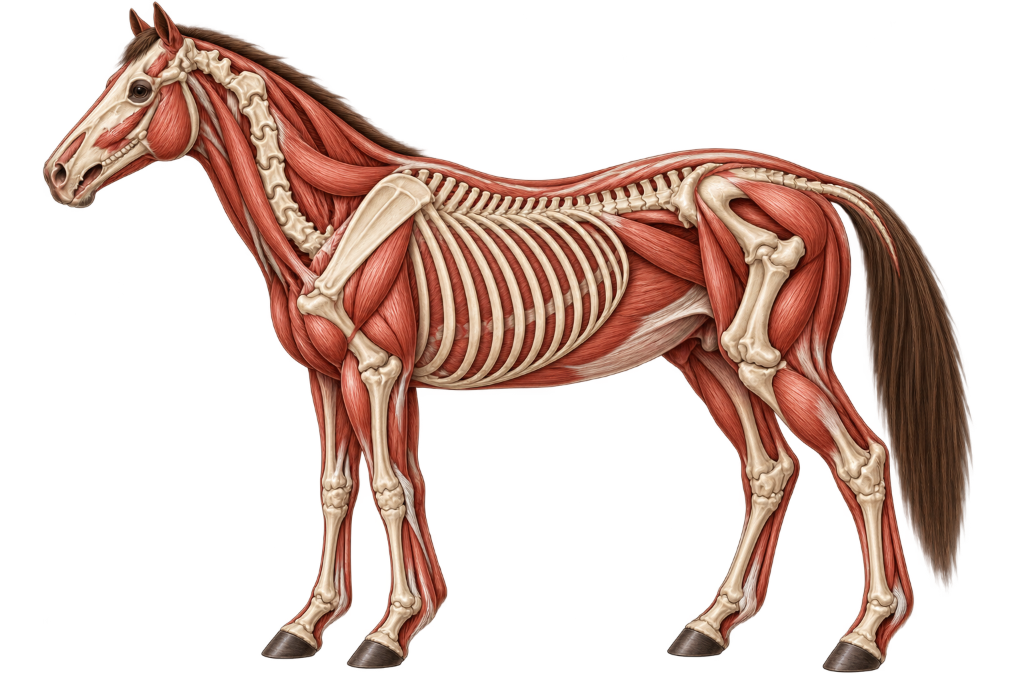
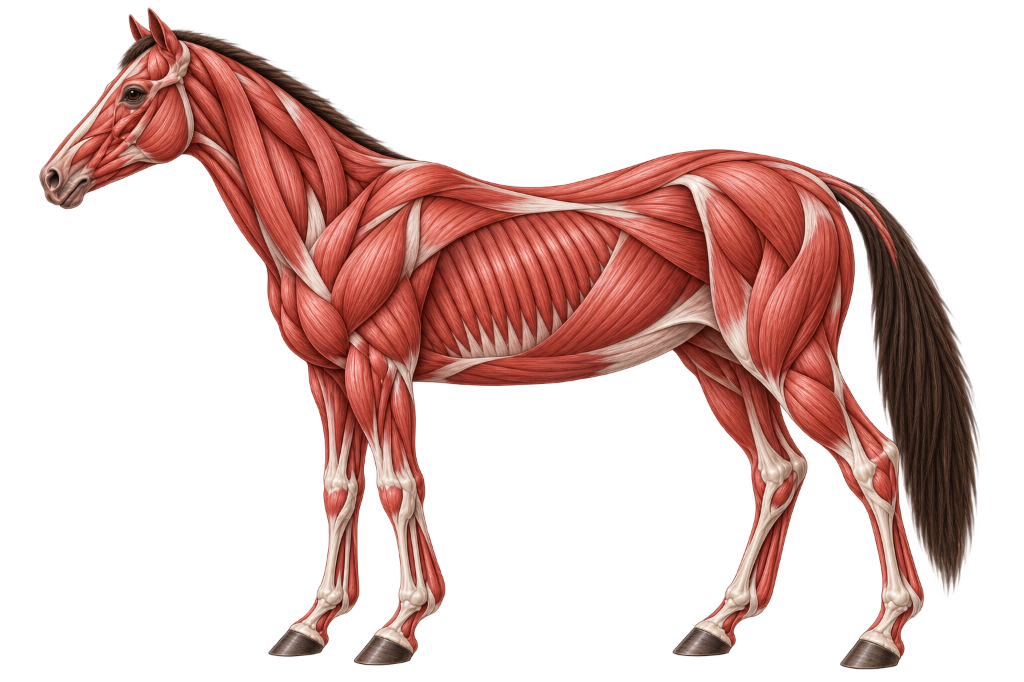
style(health): update horse muscle anatomy graphic to high-detail illustration

Changed region(s): [[0.0312, 0.0, 0.9688, 0.9853]]

diff --git a/src/features/health/components/HorseAnatomyGraphic.tsx b/src/features/health/components/HorseAnatomyGraphic.tsx
@@ -75,39 +75,10 @@ export const HorseAnatomyGraphic: React.FC<HorseAnatomyGraphicProps> = ({
             style={{
               filter: isSkeleton
                 ? "contrast(1.15) brightness(1.02)"
-                : "saturate(1.08) contrast(1.04)",
+                : "contrast(1.02)",
               transition: "filter 0.3s ease, opacity 0.25s ease",
             }}
           />
-
-          {/* Highlighted SDFT Tendon cord when in Muscle layer */}
-          {!isSkeleton && (
-            <g id="muscle-tendon-glow">
-              <line
-                x1="383"
-                y1="475"
-                x2="383"
-                y2="555"
-                stroke="#eab308"
-                strokeWidth="5"
-                strokeLinecap="round"
-                opacity="0.9"
-                filter="url(#tendonGlow)"
-              />
-              {/* Hind leg calcaneal / Achilles tendon highlight */}
-              <line
-                x1="745"
-                y1="440"
-                x2="738"
-                y2="520"
-                stroke="#eab308"
-                strokeWidth="4"
-                strokeLinecap="round"
-                opacity="0.75"
-                filter="url(#tendonGlow)"
-              />
-            </g>
-          )}
         </g>
       </svg>
     </div>
